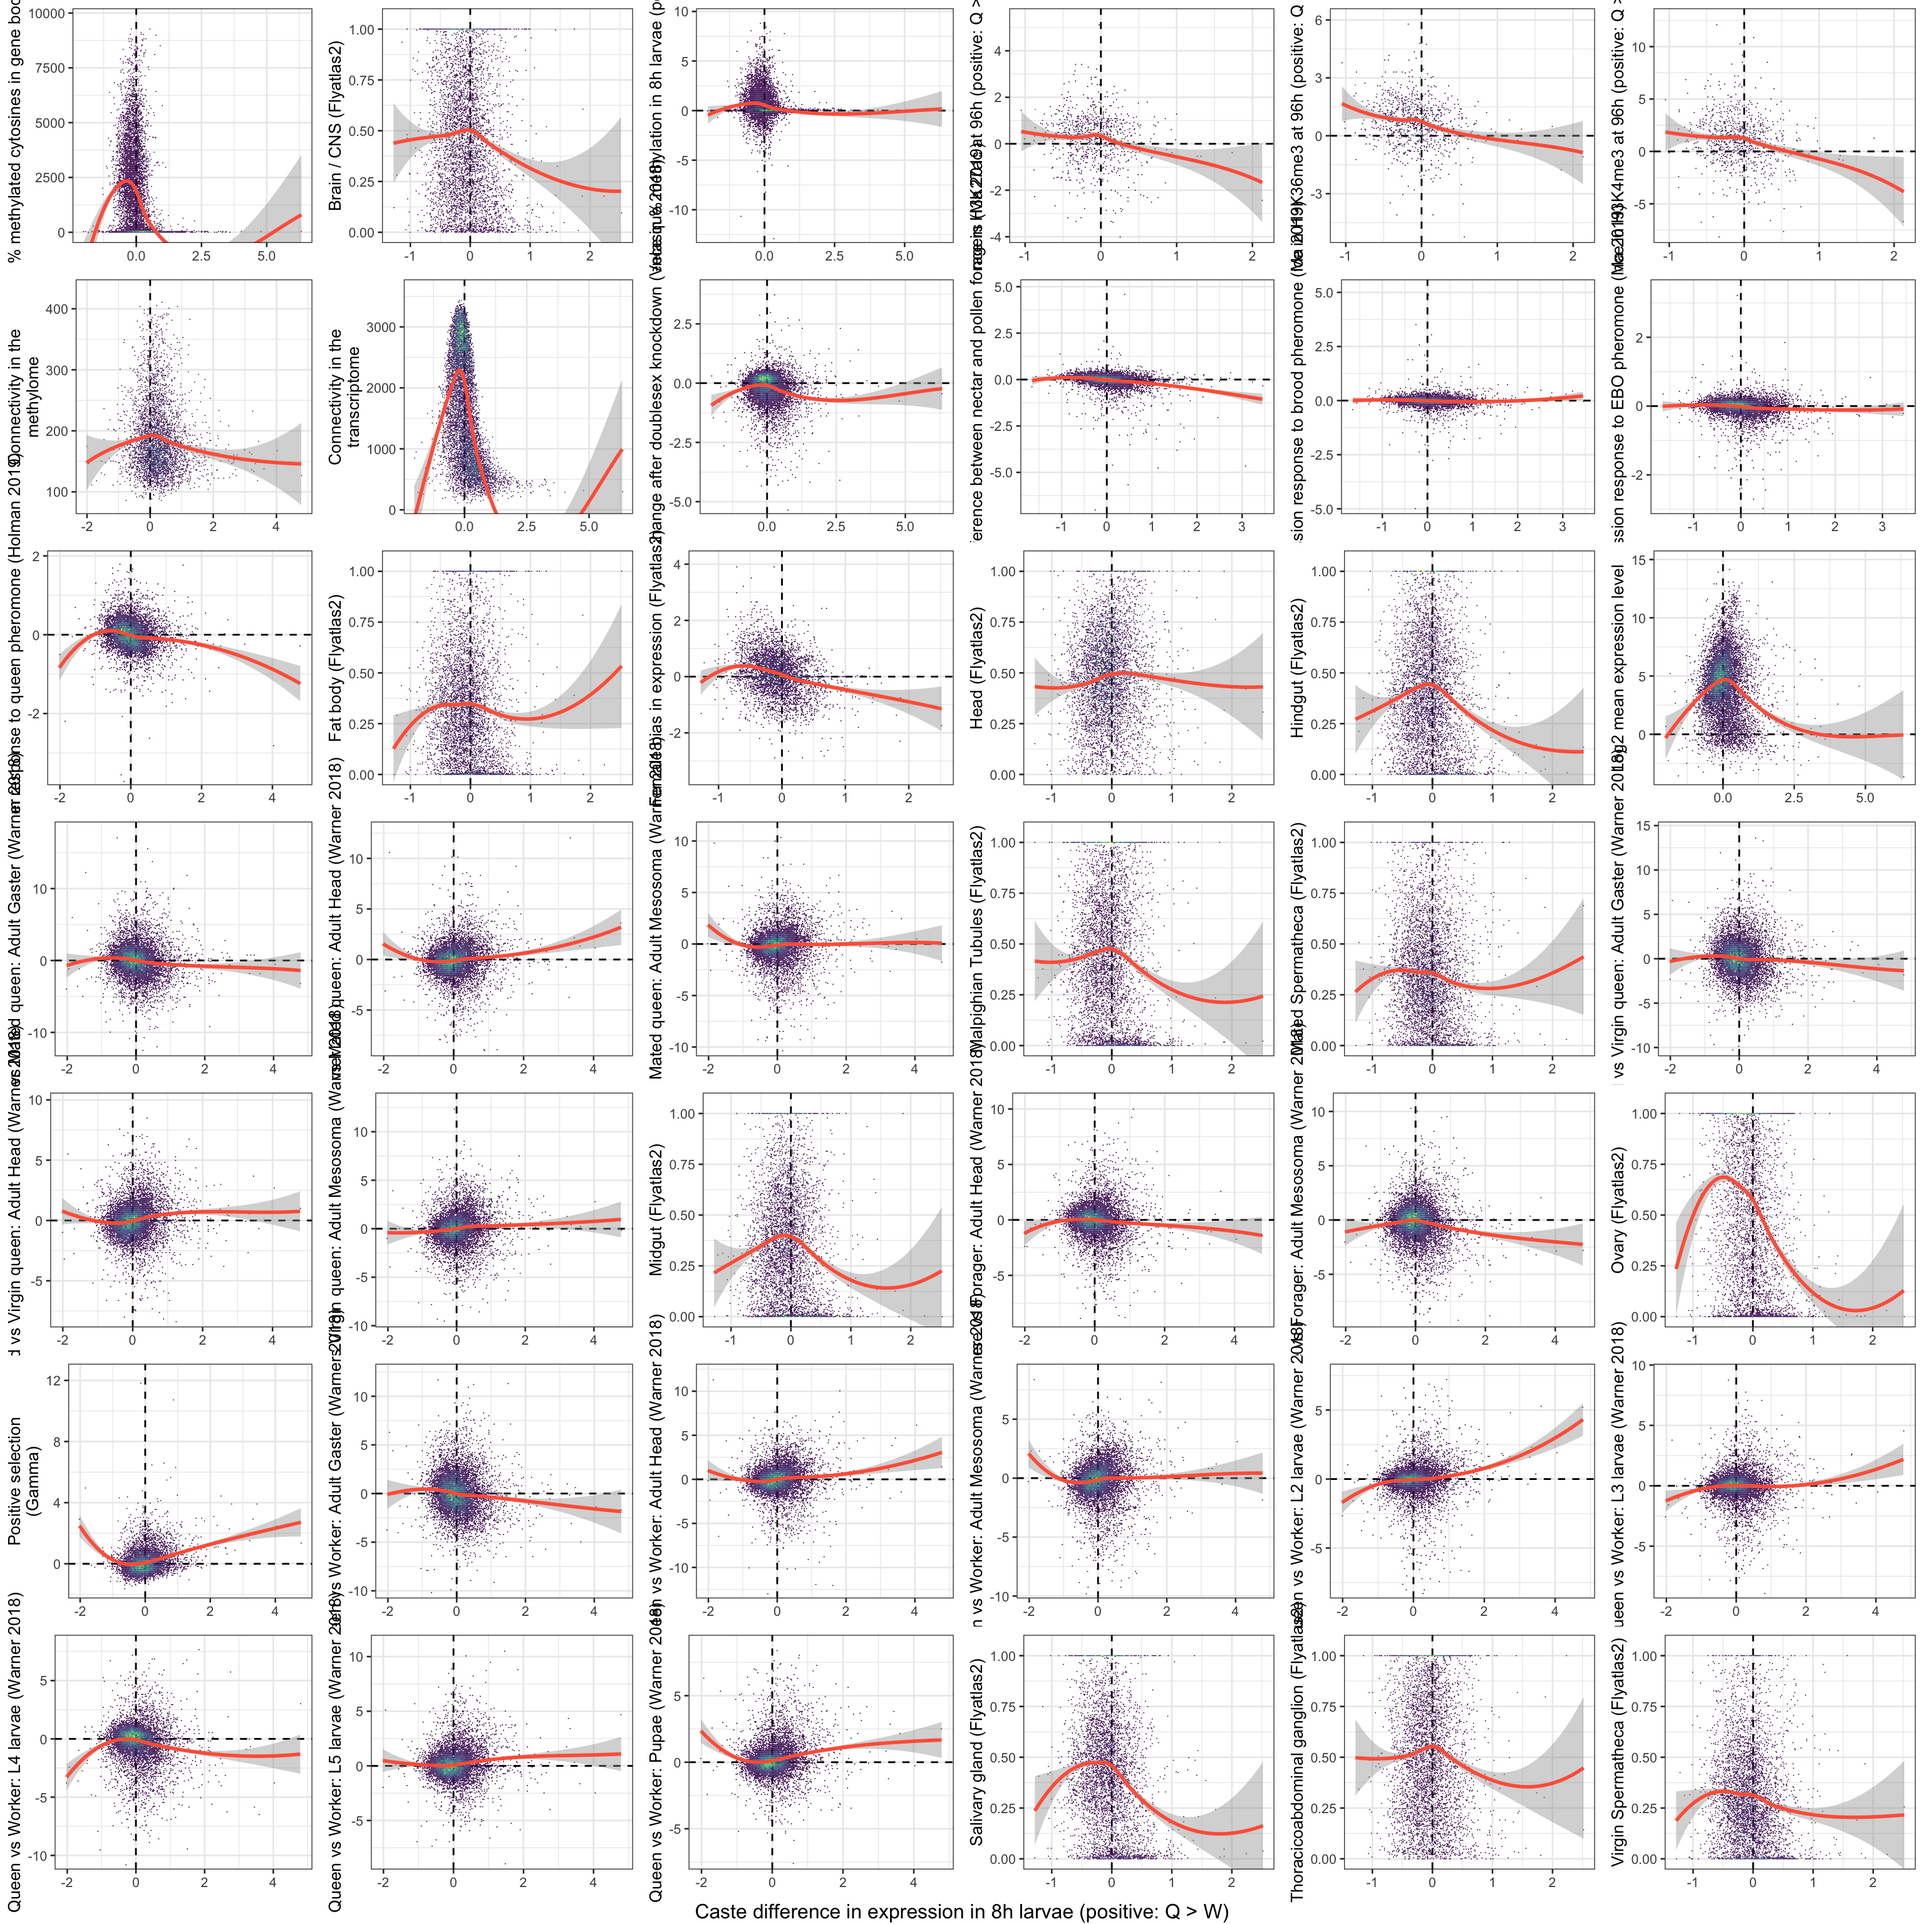
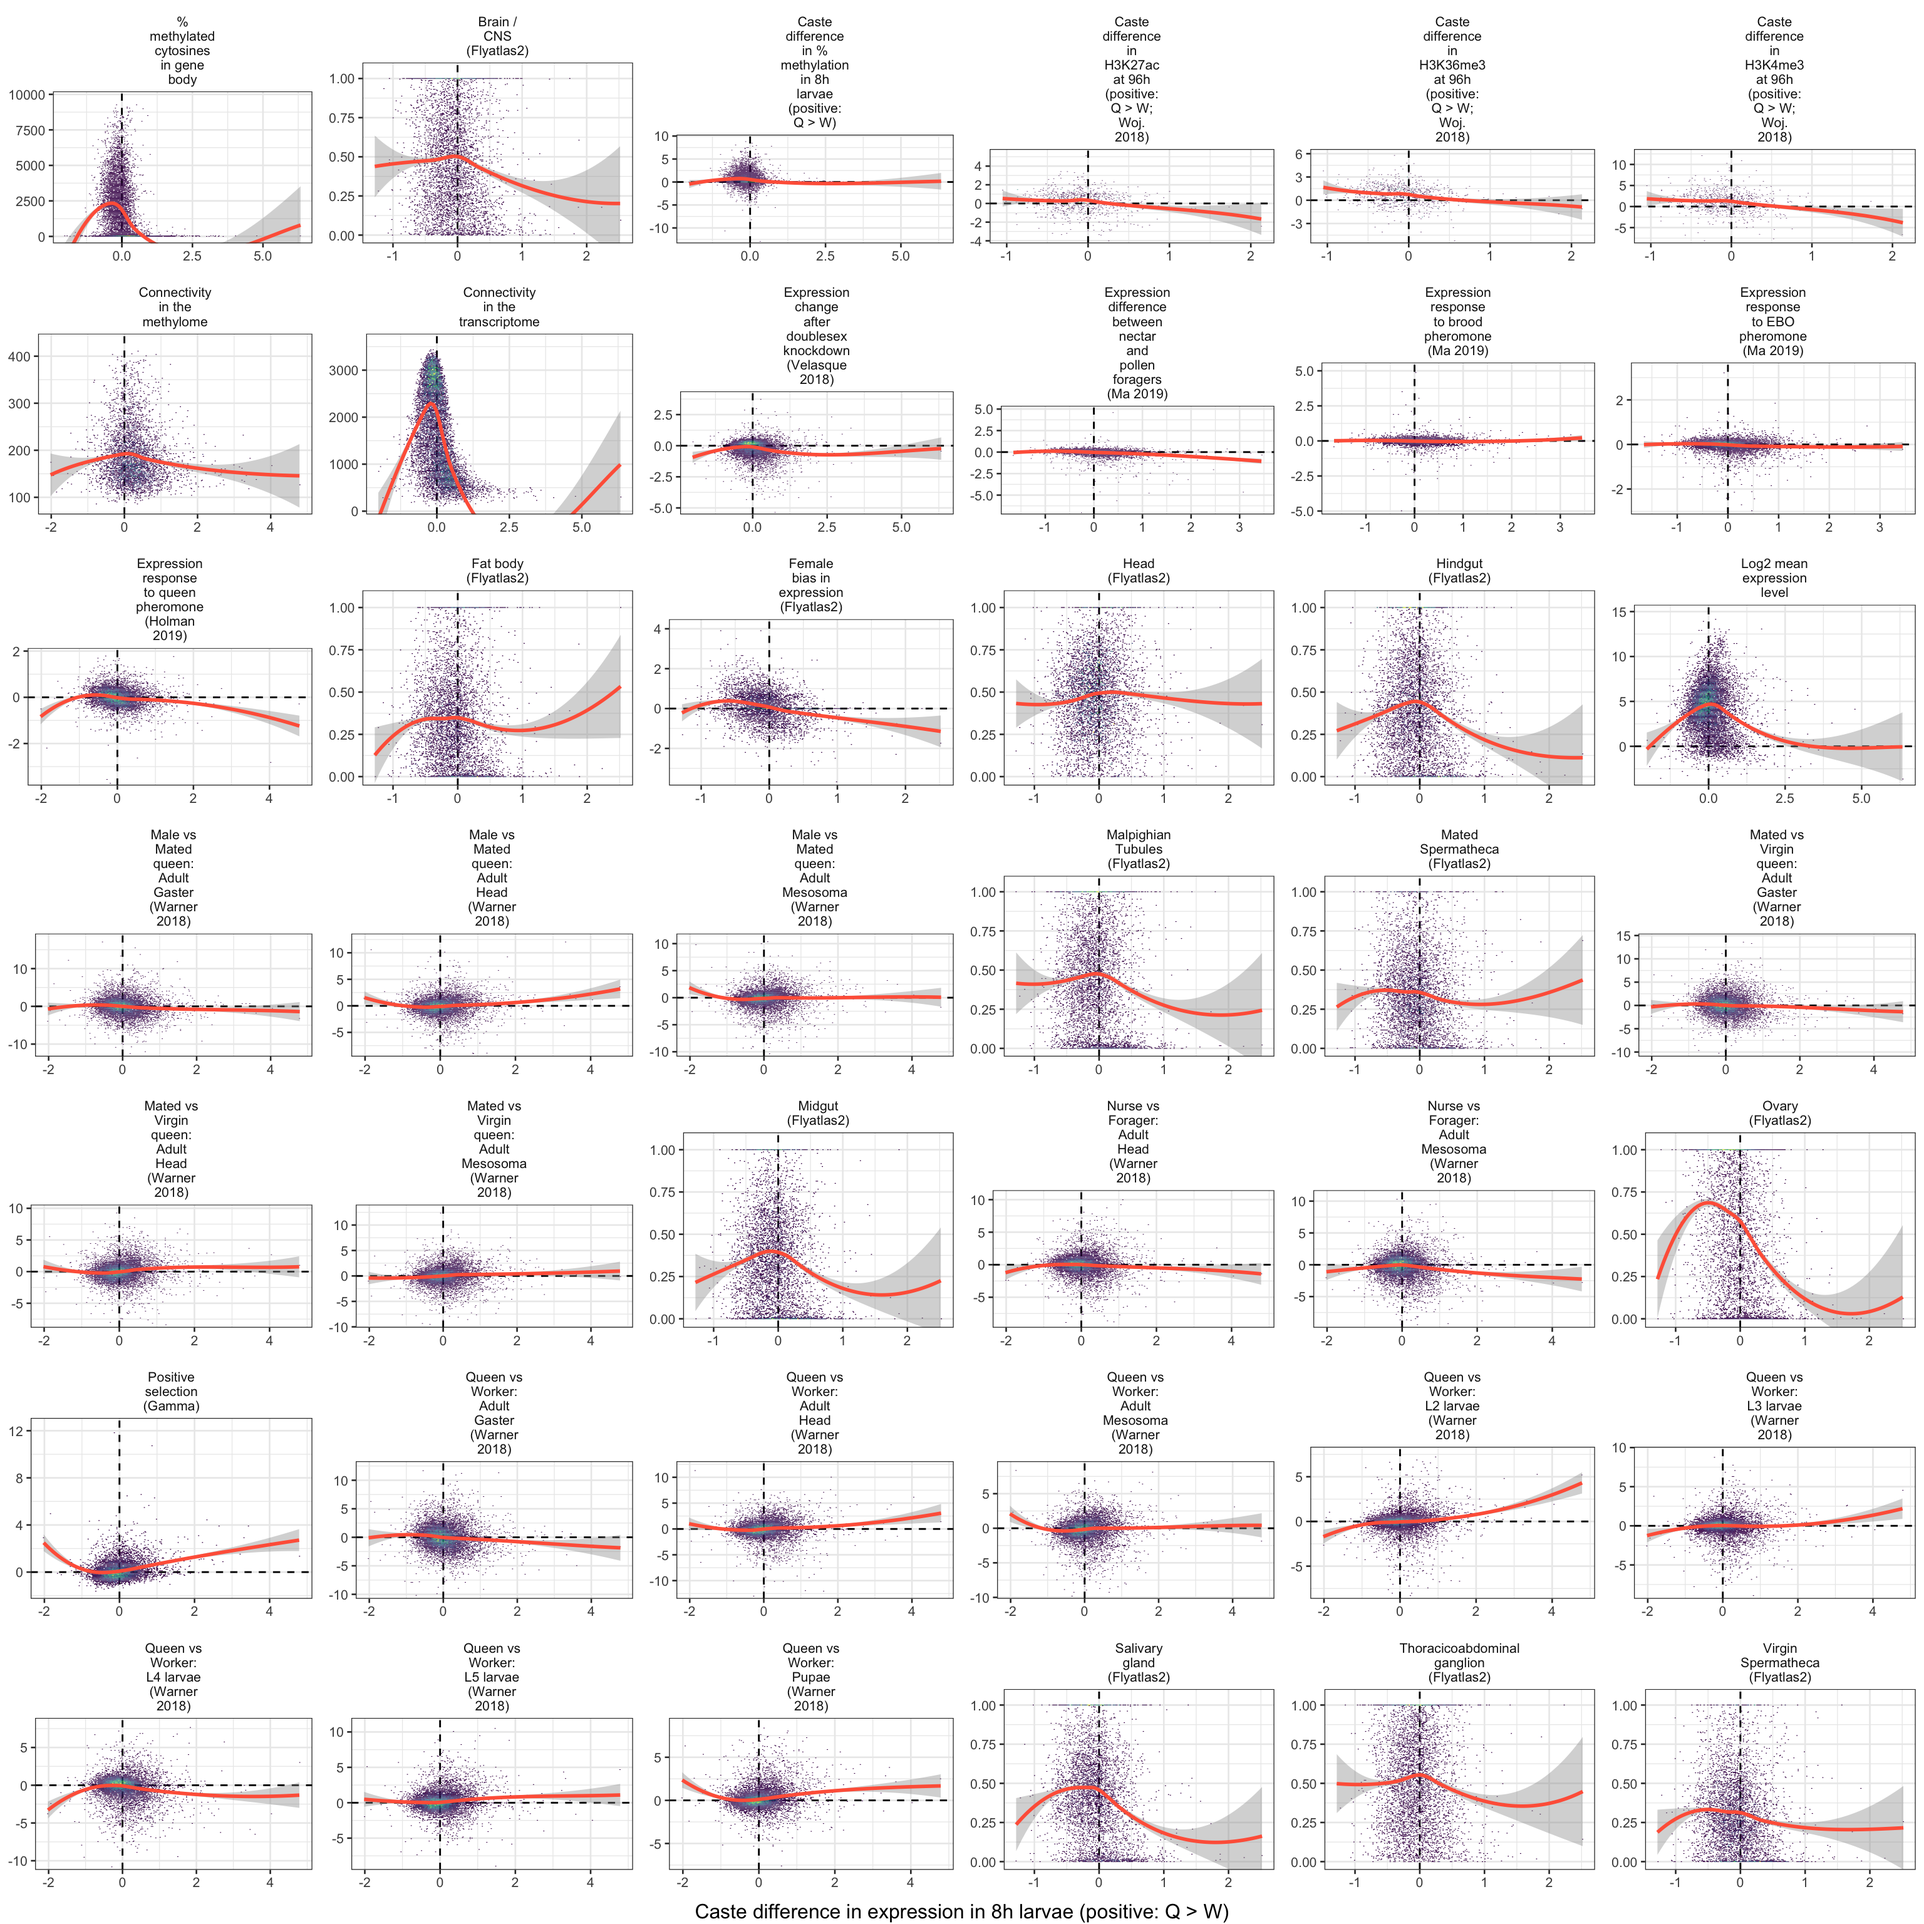
Build site.

Changed region(s): [[0.0, 0.0, 1.0, 0.9688]]

diff --git a/docs/compare_expression_and_methylation.html b/docs/compare_expression_and_methylation.html
@@ -540,16 +540,16 @@ This reproducible <a href="http://rmarkdown.rstudio.com">R Markdown</a> analysis
 <div class="panel panel-default">
 <div class="panel-heading">
 <p class="panel-title">
-<a data-toggle="collapse" data-parent="#workflowr-checks" href="#strongRepositoryversionstrongahrefhttpsgithubcomlukeholmanMethylationApistreef1ef5bd25e4d398f1d03084040209335cdb58e27targetblankf1ef5bda"> <span class="glyphicon glyphicon-ok text-success" aria-hidden="true"></span> <strong>Repository version:</strong> <a href="https://github.com/lukeholman/Methylation_Apis/tree/f1ef5bd25e4d398f1d03084040209335cdb58e27" target="_blank">f1ef5bd</a> </a>
+<a data-toggle="collapse" data-parent="#workflowr-checks" href="#strongRepositoryversionstrongahrefhttpsgithubcomlukeholmanMethylationApistree0f9d2d384497e7c267b368efe9565f2119042e6dtargetblank0f9d2d3a"> <span class="glyphicon glyphicon-ok text-success" aria-hidden="true"></span> <strong>Repository version:</strong> <a href="https://github.com/lukeholman/Methylation_Apis/tree/0f9d2d384497e7c267b368efe9565f2119042e6d" target="_blank">0f9d2d3</a> </a>
 </p>
 </div>
[2 lines of base64/hex data omitted]
 <div class="panel-body">
 <p>
 Great! You are using Git for version control. Tracking code development and connecting the code version to the results is critical for reproducibility.
 </p>
 <p>
-The results in this page were generated with repository version <a href="https://github.com/lukeholman/Methylation_Apis/tree/f1ef5bd25e4d398f1d03084040209335cdb58e27" target="_blank">f1ef5bd</a>. See the <em>Past versions</em> tab to see a history of the changes made to the R Markdown and HTML files.
+The results in this page were generated with repository version <a href="https://github.com/lukeholman/Methylation_Apis/tree/0f9d2d384497e7c267b368efe9565f2119042e6d" target="_blank">0f9d2d3</a>. See the <em>Past versions</em> tab to see a history of the changes made to the R Markdown and HTML files.
 </p>
 <p>
 Note that you need to be careful to ensure that all relevant files for the analysis have been committed to Git prior to generating the results (you can use <code>wflow_publish</code> or <code>wflow_git_commit</code>). workflowr only checks the R Markdown file, but you know if there are other scripts or data files that it depends on. Below is the status of the Git repository when the results were generated:
@@ -613,6 +613,40 @@ Message
 </tr>
 </thead>
 <tbody>
+<tr>
+<td>
+Rmd
+</td>
+<td>
+<a href="https://github.com/lukeholman/Methylation_Apis/blob/0f9d2d384497e7c267b368efe9565f2119042e6d/analysis/compare_expression_and_methylation.Rmd" target="_blank">0f9d2d3</a>
+</td>
+<td>
+lukeholman
+</td>
+<td>
+2020-09-25
+</td>
+<td>
+commit third page
+</td>
+</tr>
+<tr>
+<td>
+html
+</td>
+<td>
+<a href="https://rawcdn.githack.com/lukeholman/Methylation_Apis/29848633580ef996483ac6a136f795cd1be881f4/docs/compare_expression_and_methylation.html" target="_blank">2984863</a>
+</td>
+<td>
+lukeholman
+</td>
+<td>
+2020-09-25
+</td>
+<td>
+Build site.
+</td>
+</tr>
 <tr>
 <td>
 Rmd
@@ -1078,6 +1112,17 @@ Date
 <tbody>
 <tr>
 <td>
+<a href="https://github.com/lukeholman/Methylation_Apis/blob/29848633580ef996483ac6a136f795cd1be881f4/docs/figure/compare_expression_and_methylation.Rmd/geneExpr-1.png" target="_blank">2984863</a>
+</td>
+<td>
+lukeholman
+</td>
+<td>
+2020-09-25
+</td>
+</tr>
+<tr>
+<td>
 <a href="https://github.com/lukeholman/Methylation_Apis/blob/184f525c0b4e7aa658bebed7f178ed7f1bc74761/docs/figure/compare_expression_and_methylation.Rmd/geneExpr-1.png" target="_blank">184f525</a>
 </td>
 <td>
@@ -1281,6 +1326,17 @@ Date
 </tr>
 </thead>
 <tbody>
+<tr>
+<td>
+<a href="https://github.com/lukeholman/Methylation_Apis/blob/29848633580ef996483ac6a136f795cd1be881f4/docs/figure/compare_expression_and_methylation.Rmd/unnamed-chunk-4-1.png" target="_blank">2984863</a>
+</td>
+<td>
+lukeholman
+</td>
+<td>
+2020-09-25
+</td>
+</tr>
 <tr>
 <td>
 <a href="https://github.com/lukeholman/Methylation_Apis/blob/a8d7c554f690c3dd33a2bd444635daefef55030b/docs/figure/compare_expression_and_methylation.Rmd/unnamed-chunk-4-1.png" target="_blank">a8d7c55</a>
@@ -1678,6 +1734,17 @@ Date
 <tbody>
 <tr>
 <td>
+<a href="https://github.com/lukeholman/Methylation_Apis/blob/29848633580ef996483ac6a136f795cd1be881f4/docs/figure/compare_expression_and_methylation.Rmd/big_cor_plot-1.png" target="_blank">2984863</a>
+</td>
+<td>
+lukeholman
+</td>
+<td>
+2020-09-25
+</td>
+</tr>
+<tr>
+<td>
 <a href="https://github.com/lukeholman/Methylation_Apis/blob/7515d53d223c21f594ca9e33d14f81acd98748a9/docs/figure/compare_expression_and_methylation.Rmd/big_cor_plot-1.png" target="_blank">7515d53</a>
 </td>
 <td>
@@ -1711,6 +1778,7 @@ lukeholman
   ylim &lt;- range(merged_data$y)
   ylim[1] &lt;- ylim[1] - (ylim[1]*0.05)
   ylim[2] &lt;- ylim[2] + (ylim[2]*0.05)
+  merged_data$t &lt;- str_remove_all(yvar, &quot;Warner_&quot;)
   
   p &lt;- ggplot(merged_data, aes(x, y)) + 
     geom_vline(xintercept = 0, linetype = 2, colour = &quot;black&quot;) 
@@ -1719,15 +1787,17 @@ lukeholman
     p &lt;- p + geom_hline(yintercept = 0, linetype = 2, colour = &quot;black&quot;)
   }
   
-  ylab &lt;- str_remove_all(yvar, &quot;Warner_&quot;)
-  
   p + stat_bin_hex(bins = 200) + 
     stat_smooth(method = &quot;loess&quot;, colour = &quot;tomato&quot;, formula = &quot;y ~ x&quot;) + 
     scale_fill_viridis_c(option = &quot;D&quot;) +
     coord_cartesian(ylim = ylim) + 
-    ylab(ylab) + xlab(NULL) + 
+    ylab(NULL) + xlab(NULL) + 
+    facet_wrap(~ t, labeller = labeller(t = label_wrap_gen(10))) +
     theme_bw(10) + 
-    theme(legend.position = &quot;none&quot;) 
+    theme(legend.position = &quot;none&quot;,
+         # text = element_text(family = nice_font),
+          strip.background = element_rect(fill = &quot;white&quot;, colour = &quot;white&quot;))
+    
 }
 variables &lt;- names(sapply(merged_data, is.numeric)[sapply(merged_data, is.numeric)])
 
@@ -1750,6 +1820,43 @@ plots_meth &lt;- plots_meth[!sapply(plots_meth, is.null)]</code></pre>
         c(plots_expression, 
           list(bottom = &quot;Caste difference in expression in 8h larvae (positive: Q &gt; W)&quot;)))</code></pre>
 <p><img src="figure/compare_expression_and_methylation.Rmd/make_scatterplot1-1.png" width="1536" style="display: block; margin: auto;" /></p>
+<p>
+<button type="button" class="btn btn-default btn-xs btn-workflowr btn-workflowr-fig" data-toggle="collapse" data-target="#fig-make_scatterplot1-1">
+Past versions of make_scatterplot1-1.png
+</button>
+</p>
+<div id="fig-make_scatterplot1-1" class="collapse">
+<div class="table-responsive">
+<table class="table table-condensed table-hover">
+<thead>
+<tr>
+<th>
+Version
+</th>
+<th>
+Author
+</th>
+<th>
+Date
+</th>
+</tr>
+</thead>
+<tbody>
+<tr>
+<td>
+<a href="https://github.com/lukeholman/Methylation_Apis/blob/29848633580ef996483ac6a136f795cd1be881f4/docs/figure/compare_expression_and_methylation.Rmd/make_scatterplot1-1.png" target="_blank">2984863</a>
+</td>
+<td>
+lukeholman
+</td>
+<td>
+2020-09-25
+</td>
+</tr>
+</tbody>
+</table>
+</div>
+</div>
 </div>
 <div id="caste-biased-methylation-in-8h-larvae" class="section level4">
 <h4>Caste-biased <em>methylation</em> in 8h larvae</h4>
@@ -1757,6 +1864,43 @@ plots_meth &lt;- plots_meth[!sapply(plots_meth, is.null)]</code></pre>
         c(plots_meth, 
           list(bottom = &quot;Caste difference in % methylation in 8h larvae (positive: Q &gt; W)&quot;)))</code></pre>
 <p><img src="figure/compare_expression_and_methylation.Rmd/make_scatterplot2-1.png" width="1536" style="display: block; margin: auto;" /></p>
+<p>
+<button type="button" class="btn btn-default btn-xs btn-workflowr btn-workflowr-fig" data-toggle="collapse" data-target="#fig-make_scatterplot2-1">
+Past versions of make_scatterplot2-1.png
+</button>
+</p>
+<div id="fig-make_scatterplot2-1" class="collapse">
+<div class="table-responsive">
+<table class="table table-condensed table-hover">
+<thead>
+<tr>
+<th>
+Version
+</th>
+<th>
+Author
+</th>
+<th>
+Date
+</th>
+</tr>
+</thead>
+<tbody>
+<tr>
+<td>
+<a href="https://github.com/lukeholman/Methylation_Apis/blob/29848633580ef996483ac6a136f795cd1be881f4/docs/figure/compare_expression_and_methylation.Rmd/make_scatterplot2-1.png" target="_blank">2984863</a>
+</td>
+<td>
+lukeholman
+</td>
+<td>
+2020-09-25
+</td>
+</tr>
+</tbody>
+</table>
+</div>
+</div>
 </div>
 </div>
 <div id="statistical-tables-associated-with-these-scatterplots" class="section level3 tabset">
